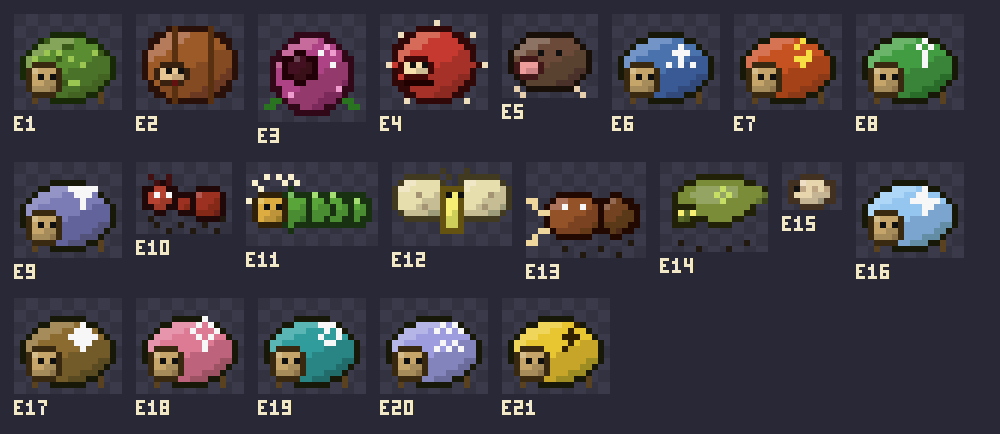
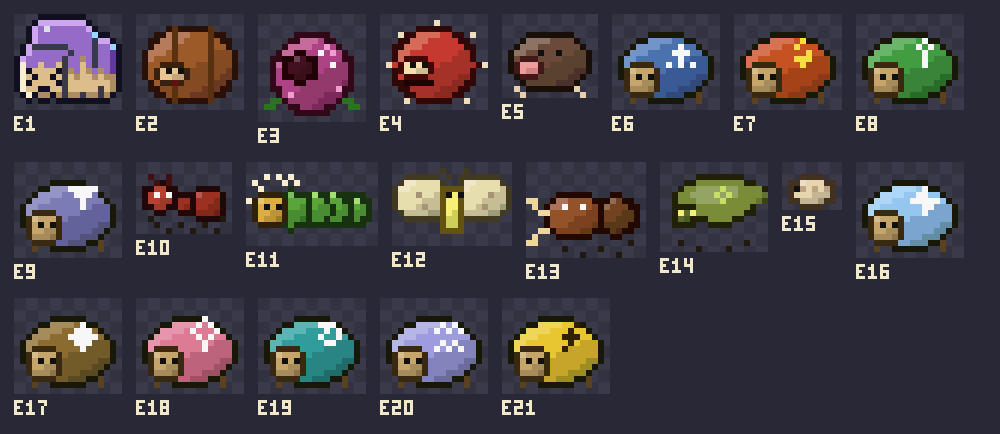
Owner's Snoozegrub in the game; pilot complete
Claude-Session: https://claude.ai/code/session_01UpCre765D9BK8uxKFxcrpT

Changed region(s): [[0.0, 0.03, 0.124, 0.2396]]

diff --git a/docs/PLAN.md b/docs/PLAN.md
@@ -204,7 +204,7 @@ The owner draws the art; a tool turns photos of the drawings into sprites in one
 - [x] Art List generated from the manifest, with permanent codes (`npm run art:list`: 232 codes in `art/codes.json`, `art/ART-LIST.md`)
 - [x] Pixel Press: sprite sources to PNG and manifest, mirroring, character and theme recolours, style check, placeholders never overwrite approved art (`npm run art:press`, `npm run art:preview`, `tests/art.test.ts`)
 - [x] Contact sheets of every placeholder with its code (replaces printed drawing sheets: the owner draws freehand in a sketchbook) (`art/list/<letter>.png`)
-- [ ] Pilot: three owner drawings taken through the whole loop from the phone (also settles how photos arrive, and whether a photo clean-up tool is worth building)
+- [x] Pilot: three owner drawings taken through the whole loop from the phone (also settles how photos arrive, and whether a photo clean-up tool is worth building) (2026-11-23: a test Rollo, G13 Pin Needle and E1 Snoozegrub in the game; photos arrive as files; a shape-reading tool is worth building for large items)
 - [ ] Tile swatches wrapped onto every slope shape
 
 **Done when:** the owner can send a photo of a drawing from the phone and see it in the game, in style, the same day.
@@ -338,3 +338,4 @@ Controller support; desktop packaging; open-world mode; daily seed. (Endless mod
 - 2026-11-23 — Pilot item 2: the owner's G13 Pin Needle, version C (poison-coated), approved and pressed into the game: the first owner art in the game. Next: E1.
 - 2026-11-23 — Pilot item 3: the owner's E1 Snoozegrub drawing (square grumpy head, striped three-plate shell, pale body). Two render-downs (A faithful, B one bold dome) and shell-colour options for the grub family in `art/drafts/`. Waiting for the owner's pick.
 - 2026-11-23 — E1 redrawn by the owner with marker colouring to mark parts (colour irrelevant). Two render-downs in `art/drafts/E1-redo-*.sprite`. Waiting for the owner's pick.
+- 2026-11-23 — Pilot done. The owner's E1 Snoozegrub (redo, face squished down, frown lower) approved and pressed into the game, after G13. Three drawings went through the whole loop from the phone. Left in Milestone 8c: tile texture swatches.

diff --git a/docs/plans/art-pipeline.md b/docs/plans/art-pipeline.md
@@ -284,3 +284,4 @@ which and how big it is. For animated items it shows every frame.
   muted on grass but the ink outline keeps it readable.
 - **E1 redo (owner, 2026-11-23):** the owner redrew the Snoozegrub with **marker colouring to mark the parts** (the marker's colour is irrelevant; recorded in `art/README.md` and `art/STYLE.md`). New design: a plain dome and a front plate whose scalloped edge hangs over the head like a fringe, drips running down over the pale body, a small back plate, `> <` squeezed eyes and a frown, two segment notches. Rendered with a part map (each part shaded by the B2 rules, ink lines only where the drawing has lines): `art/drafts/E1-redo-a.sprite` and `E1-redo-b.sprite` (bolder drips). Learned: lighting every edge between parts makes noise; light the outer top-left edge only, and add a small shadow under overhangs.
   - **Owner, 2026-11-23:** picked redo B and asked to squish the face down so it is less square. The head's top came down one row (the front plate grows to meet it). The face then needed rearranging: the eyes' bottoms and the frown's top shared a row and read as a grid of x's. Two fixes: frown one row lower (`E1-redo-b-squished-1`), or two-row squinting eyes (`E1-redo-b-squished-2`).
+- **Pilot item 3 done (owner, 2026-11-23):** E1 Snoozegrub, the squished-face version with the frown one row lower, approved as `art/src/E1-snoozegrub.sprite` and pressed into the game; it stands out well on grass (pale body, lavender shell). The ability grubs keep their placeholders until they are drawn (they can be shell recolours of this drawing plus a mark). **Pilot complete.**

diff --git a/art/ART-LIST.md b/art/ART-LIST.md
@@ -78,7 +78,7 @@ a mistake, never to renumber.
 
 | Code | Sprite | Name in game | Size | Frames | Made automatically | Status |
 |---|---|---|---|---|---|---|
-| **E1** | `snoozegrub` | Snoozegrub | 18×16 | 1 |  | placeholder |
+| **E1** | `snoozegrub` | Snoozegrub | 18×16 | 1 |  | approved |
 | **E2** | `mudroller` | Mudroller | 18×16 | 1 |  | placeholder |
 | **E3** | `spittlebug` | Spittlebug | 18×18 | 1 |  | placeholder |
 | **E4** | `pouncehopper` | Pouncehopper | 18×16 | 1 |  | placeholder |
